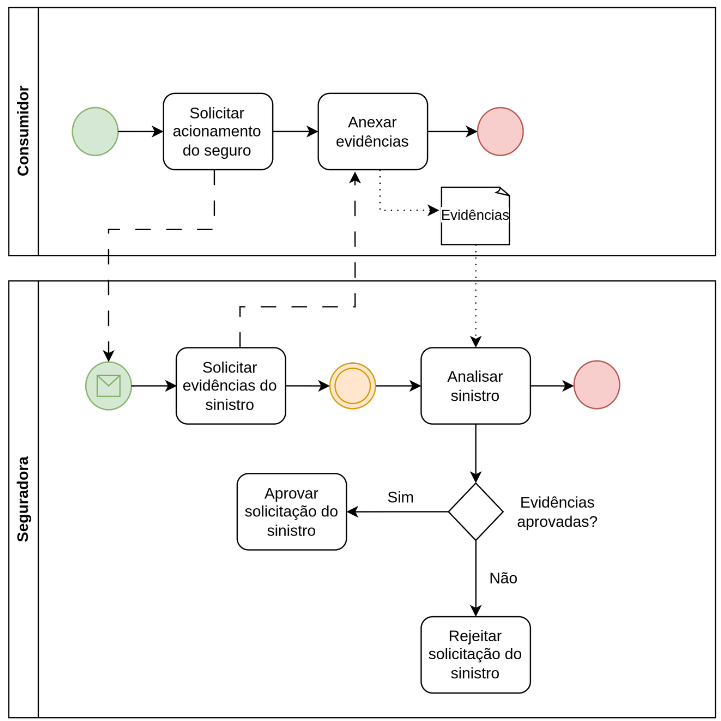
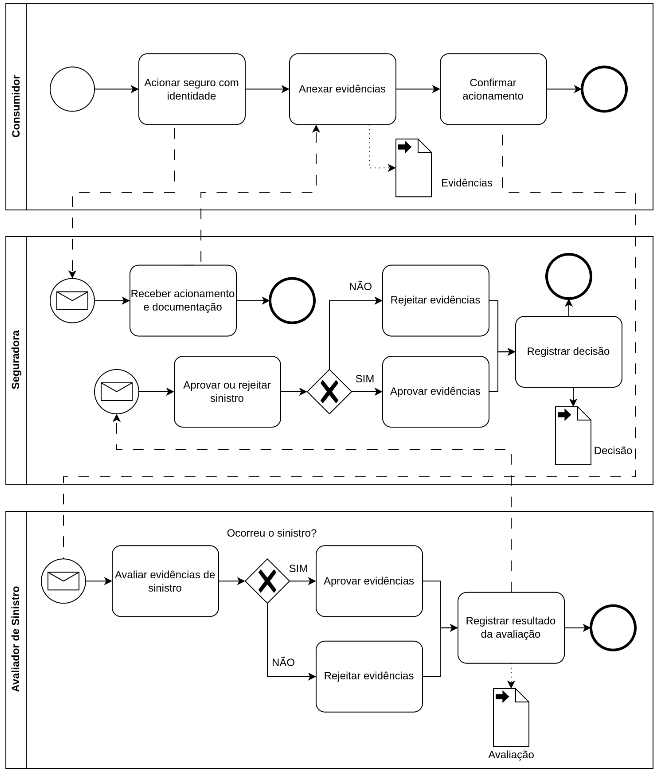
push bpmn v2

diff --git a/BPMN.md b/BPMN.md
@@ -1,95 +1,56 @@
-# Entendendo o Negócio do Projeto
-
--   Área de Domínio: Mercado de Seguros
--   Projeto: Sistema para promover transparência, eficiência e conformidade regulatória na operação de um Seguro Massificado.
-
-# Descrição de Processos de Negócio
-
--   Seguradora
-    -   Registro da contratação
-    -   Gestão e faturamento
-    -   Análise da solicitação de sinistro
--   Parceiros de distribuição (Corretores, Representantes e Estipulantes)
-    -   Oferta do seguro para o consumidor
-    -   Registro da contratação
--   Consumidor
-    -   Contratação do seguro através de um dos parceiros de distribuição
-    -   Acionamento do seguro
-
 # BPMN
 
-## Contratação
-
-![BPMN Contratação](assets/bpmn_contratacao.png)
-
-### Lista de Tarefas
-
-1.  Solicitar seguro através do parceiro de distribuição
-2.  Verificar possíveis coberturas de seguro
-3.  Selecionar cobertura do seguro
-4.  Registrar contratação
-5.  Faturar prêmios
-
-### Detalhe das Tarefas
+## Entendendo o Negócio do Projeto
 
 <table>
     <tr>
-        <th></th>
-        <th>Nome da tarefa</th>
-        <th>Dados de entrada</th>
-        <th>Dados de saída</th>
-        <th>Detalhamento da tarefa</th>
-    </tr>
+        <th>Área de Domínio</th>
+        <th>Projeto</th>
     <tr>
-        <td>1</td>
-        <td>Solicitar seguro através do parceiro de distribuição</td>
-        <td>-</td>
-        <td>Dados do produto</td>
-        <td>O consumidor solicita uma cobertura de seguro para seu produto e informa dados do produto</td>
-    </tr>
     <tr>
-        <td>2</td>
-        <td>Verificar possíveis coberturas de seguro</td>
-        <td>Dados do produto</td>
-        <td>Opções de cobertura disponíveis</td>
-        <td>A seguradora verifica quais coberturas de seguro são aplicáveis ao produto informado pelo consumidor</td>
-    </tr>
-    <tr>
-        <td>3</td>
-        <td>Selecionar cobertura do seguro</td>
-        <td>Opções de cobertura disponíveis</td>
-        <td>Opção de cobertura selecionada</td>
-        <td>O consumidor escolhe a cobertura de seguro que melhor se adapta às suas necessidades</td>
-    </tr>
-    <tr>
-        <td>4</td>
-        <td>Registrar contratação</td>
-        <td>Opção de cobertura selecionada</td>
-        <td>Contrato de seguro registrado</td>
-        <td>O parceiro de distribuição formaliza a contratação do seguro com base na opção de cobertura selecionada pelo consumidor</td>
-    </tr>
-    <tr>
-        <td>5</td>
-        <td>Faturar prêmios</td>
-        <td>Contrato de seguro registrado</td>
-        <td>Fatura gerada</td>
-        <td>A seguradora gera a fatura do prêmio do seguro com base no contrato registrado</td>
+        <td>Mercado de Seguros</td>
+        <td>Prova de conceito para implementação de Smart Contracts em uma plataforma de blockchain privada para seguro com cobertura contra roubo/furto</td>
     </tr>
 </table>
 
-## Acionamento
+## Descrição de Processos de Negócio
+
+### Seguradora
+
+-   Registro do contrato de seguro na blockchain
+-   Recepção das solicitações de sinistro
+-   Decisão sobre aprovação ou rejeição de sinistros
+-   Registro das decisões na blockchain
+
+### Parceiro de Distribuição
+
+-   Oferta de seguro durante o processo de venda de produto
+-   Registro da contratação do seguro na blockchain
+
+### Consumidor
+
+-   Aquisição de produto e contratação de seguro com parceiro de distribuição
+-   Acionamento do seguro em caso de sinistro
+-   Apresentação de documentação necessária (nota fiscal, boletim de ocorrência)
+
+### Avaliador de Sinistros
+
+-   Avaliação das evidências fornecidas pelo consumidor
+-   Análise da autenticidade das evidências
+
+## Modelagem
+
+### Processo de Contratação
+
+![BPMN Contratação](assets/bpmn_contratacao.png)
+
+### Processo de Acionamento
 
 ![BPMN Acionamento](assets/bpmn_acionamento.png)
 
-### Lista de Tarefas
+### Lista de Tarefas e Detalhes
 
-1.  Solicitar acionamento do seguro
-2.  Solicitar evidências do sinistro
-3.  Anexar evidências do sinistro
-4.  Analisar sinistro
-5.  Aprovar/rejeitar solicitação de sinistro
-
-### Detalhe das Tarefas
+#### Consumidor
 
 <table>
     <tr>
@@ -101,37 +62,129 @@
     </tr>
     <tr>
         <td>1</td>
-        <td>Solicitar acionamento do seguro</td>
-        <td>Dados do contrato de seguro</td>
-        <td>Solicitação de acionamento registrada</td>
-        <td>O consumidor solicita à seguradora o acionamento o seguro em caso de sinistro</td>
+        <td>Adquirir celular e oferta de seguro</td>
+        <td>-</td>
+        <td>Dados do produto e oferta de seguro</td>
+        <td>O consumidor adquire um celular e recebe a oferta de seguro durante o processo de compra</td>
     </tr>
     <tr>
         <td>2</td>
-        <td>Solicitar evidências do sinistro</td>
-        <td>Solicitação de acionamento registrada</td>
-        <td>Pedido de evidências enviado</td>
-        <td>A seguradora solicita ao consumidor as evidências necessárias para a análise do sinistro</td>
+        <td>Escolher cobertura do seguro</td>
+        <td>Oferta de seguro</td>
+        <td>Cobertura do seguro escolhida</td>
+        <td>O consumidor escolhe a cobertura de seguro que deseja adquirir, com base na oferta apresentada</td>
     </tr>
     <tr>
         <td>3</td>
-        <td>Anexar evidências do sinistro</td>
-        <td>Pedido de evidências</td>
-        <td>Evidências</td>
-        <td>O consumidor fornece as evidências do sinistro, como fotos ou documentos</td>
+        <td>Concordar com termos e condições</td>
+        <td>Oferta de seguro</td>
+        <td>Confirmação de concordância</td>
+        <td>O consumidor concorda com os termos e condições do seguro oferecido</td>
     </tr>
     <tr>
         <td>4</td>
-        <td>Analisar sinistro</td>
-        <td>Evidências</td>
-        <td>Resultado da análise</td>
-        <td>A seguradora analisa as evidências fornecidas para determinar a validade do sinistro</td>
+        <td>Acionar seguro com identidade</td>
+        <td>Identidade de contrato e seguro</td>
+        <td>Solicitação de acionamento registrada</td>
+        <td>O consumidor utiliza sua identidade para acionar o seguro através da aplicação da seguradora</td>
     </tr>
     <tr>
         <td>5</td>
-        <td>Aprovar/rejeitar solicitação de sinistro</td>
-        <td>Resultado da análise</td>
-        <td>Decisão sobre o sinistro</td>
-        <td>A seguradora aprova ou rejeita a solicitação de sinistro com base na análise das evidências</td>
+        <td>Anexar evidências</td>
+        <td>Solicitação de acionamento</td>
+        <td>Evidências de sinistro</td>
+        <td>O consumidor anexa a nota fiscal do celular e o boletim de ocorrência do furto/roubo</td>
     </tr>
+    <tr>
+        <td>6</td>
+        <td>Confirmar acionamento</td>
+        <td>Evidências de sinistro</td>
+        <td>Confirmação de acionamento</td>
+        <td>O consumidor confirma o acionamento do seguro, finalizando o envio de todas as informações e evidências necessárias</td>
+    </tr>
+</table>
+
+#### Parceiro de Distribuição
+
+<table>
+    <tr>
+        <th></th>
+        <th>Nome da tarefa</th>
+        <th>Dados de entrada</th>
+        <th>Dados de saída</th>
+        <th>Detalhamento da tarefa</th>
+    </tr>
+    <tr>
+        <td>1</td>
+        <td>Oferecer seguro durante compra</td>
+        <td>Dados do produto</td>
+        <td>Oferta de seguro</td>
+        <td>O parceiro de distribuição oferece o seguro ao consumidor durante o processo de compra do celular</td>
+    </tr>
+    <tr>
+        <td>2</td>
+        <td>Gerar contrato e identidade</td>
+        <td>Cobertura do seguro escolhida, confirmação de concordância</td>
+        <td>Contrato de seguro gerado, identidade criada</td>
+        <td>O parceiro de distribuição gera o contrato de seguro e cria uma identidade</td>
+    </tr> 
+</table>
+
+#### Seguradora
+
+<table>
+    <tr>
+        <th></th>
+        <th>Nome da tarefa</th>
+        <th>Dados de entrada</th>
+        <th>Dados de saída</th>
+        <th>Detalhamento da tarefa</th>
+    </tr>
+    <tr>
+        <td>1</td>
+        <td>Receber acionamento e documentação</td>
+        <td>Solicitação de acionamento e evidências</td>
+        <td>Dados do sinistro registrados</td>
+        <td>A seguradora recebe o acionamento e a documentação do consumidor</td>
+    </tr>
+    <tr>
+        <td>2</td>
+        <td>Aprovar ou rejeitar sinistro</td>
+        <td>Resultado da avaliação</td>
+        <td>Decisão sobre o sinistro</td>
+        <td>A seguradora toma a decisão final de aprovar ou rejeitar o sinistro baseado na avaliação do avaliador de sinistros</td>
+    </tr>
+    <tr>
+        <td>3</td>
+        <td>Registrar decisão</td>
+        <td>Decisão sobre o sinistro</td>
+        <td>Decisão registrada</td>
+        <td>A seguradora registra a decisão final, tornando a informação acessível a todos os participantes autorizados</td>
+    </tr>
+</table>
+
+#### Avaliador de Sinistros
+
+<table>
+    <tr>
+        <th></th>
+        <th>Nome da tarefa</th>
+        <th>Dados de entrada</th>
+        <th>Dados de saída</th>
+        <th>Detalhamento da tarefa</th>
+    </tr>
+    <tr>
+        <td>1</td>
+        <td>Avaliar evidências de sinistro</td>
+        <td>Dados do sinistro</td>
+        <td>Resultado da avaliação</td>
+        <td>O avaliador de sinistros avalia as evidências apresentadas pelo consumidor para verificar a validade do sinistro</td>
+    </tr>
+<tr>
+    <td>2</td>
+    <td>Registrar resultado da avaliação</td>
+    <td>Resultado da avaliação</td>
+    <td>Resultado registrado</td>
+    <td>O avaliador registra o resultado da avaliação, informando a seguradora sobre a validade do sinistro</td>
+    </tr> 
 </table>
